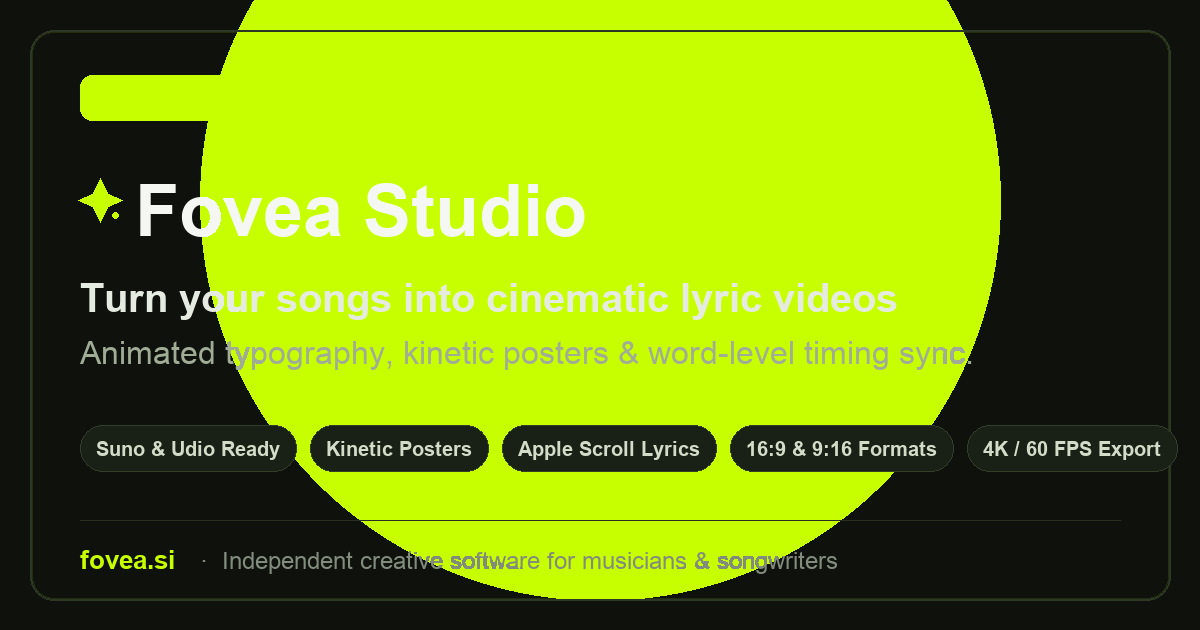
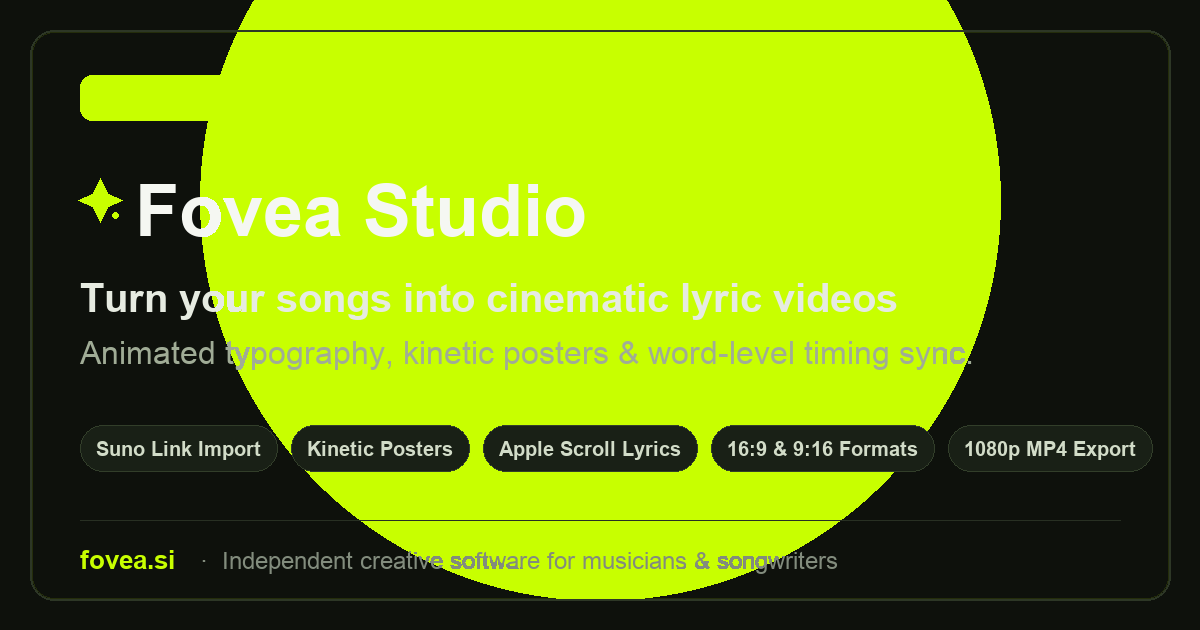
fix(seo): align pricing in llms.txt & json-ld with official catalog, remove unverified claims

Changed region(s): [[0.1233, 0.6635, 0.9867, 0.754]]

diff --git a/frontend/index.html b/frontend/index.html
@@ -11,7 +11,7 @@
 <link rel="icon" type="image/png" sizes="16x16" href="/favicon-16x16.png">
 <link rel="apple-touch-icon" sizes="180x180" href="/apple-touch-icon.png">
 <link rel="stylesheet" href="/marketing/site.css?v=20261103_convert"><script src="/marketing/site.js?v=20261103_convert" defer></script>
-<script type="application/ld+json">{"@context": "https://schema.org", "@type": "SoftwareApplication", "name": "fovea.si", "url": "https://fovea.si", "applicationCategory": "MultimediaApplication", "operatingSystem": "Web", "description": "AI-powered lyric video maker and animated typography studio for Suno musicians and music creators.", "offers": [{"@type": "Offer", "price": "0", "priceCurrency": "USD", "name": "Free Starter", "description": "60 free credits to create your first lyric videos, no credit card required"}, {"@type": "Offer", "price": "9.99", "priceCurrency": "USD", "name": "Creator Monthly", "description": "300 credits per month (about $1 per song)"}]}</script>
+<script type="application/ld+json">{"@context": "https://schema.org", "@type": "SoftwareApplication", "name": "fovea.si", "url": "https://fovea.si", "applicationCategory": "MultimediaApplication", "operatingSystem": "Web", "description": "AI-powered lyric video maker and animated typography studio for Suno musicians and music creators.", "offers": [{"@type": "Offer", "price": "0", "priceCurrency": "USD", "name": "Free Starter", "description": "60 free credits to create your first lyric videos, no credit card required"}, {"@type": "Offer", "price": "9.99", "priceCurrency": "USD", "name": "Creator (300 Credits/mo)", "description": "300 credits per month"}, {"@type": "Offer", "price": "19.99", "priceCurrency": "USD", "name": "Pro (800 Credits/mo)", "description": "800 credits per month"}, {"@type": "Offer", "price": "29.99", "priceCurrency": "USD", "name": "Studio (1,500 Credits/mo)", "description": "1,500 credits per month"}]}</script>
 <script>(function(){const t=window.CF_BEACON_TOKEN||document.querySelector('meta[name="cf-beacon-token"]')?.getAttribute('content');if(t&&!document.querySelector('script[src*="cloudflareinsights.com/beacon.min.js"]')){const s=document.createElement('script');s.defer=true;s.src='https://static.cloudflareinsights.com/beacon.min.js';s.setAttribute('data-cf-beacon',JSON.stringify({token:t}));document.head.appendChild(s);}})();</script></head>
 <body><a class="skip" href="#main">Skip to content</a>
 <header class="site-header"><a class="brand" href="/" aria-label="Fovea Studio home"><span class="brand-mark" aria-hidden="true"><svg width="18" height="18" viewBox="0 0 24 24" fill="none" stroke="currentColor" stroke-width="2.2" stroke-linecap="round" stroke-linejoin="round"><path d="M11.017 2.814a1 1 0 0 1 1.966 0l1.051 5.558a2 2 0 0 0 1.594 1.594l5.558 1.051a1 1 0 0 1 0 1.966l-5.558 1.051a2 2 0 0 0-1.594 1.594l-1.051 5.558a1 1 0 0 1-1.966 0l-1.051-5.558a2 2 0 0 0-1.594-1.594l-5.558-1.051a1 1 0 0 1 0-1.966l5.558-1.051a2 2 0 0 0 1.594-1.594z"/><circle cx="19" cy="19" r="2" fill="currentColor"/></svg></span><span class="brand-name">Fovea <span class="brand-suffix">Studio</span></span></a>

diff --git a/scripts/build_marketing.py b/scripts/build_marketing.py
@@ -120,8 +120,26 @@ def shell(title, description, content, *, page='home', path=None):
 
     json_ld = ''
     if page == 'home':
-        facts = plain_credit_facts()
-        creator_price = facts['creator_price']
+        rate = rates()
+        offers = [
+            {
+                "@type": "Offer",
+                "price": "0",
+                "priceCurrency": "USD",
+                "name": "Free Starter",
+                "description": f"{rate['free']} free credits to create your first lyric videos, no credit card required"
+            }
+        ]
+        for product in catalog():
+            if product.get('kind') == 'subscription':
+                price_str = f"{product['price_cents'] / 100:.2f}"
+                offers.append({
+                    "@type": "Offer",
+                    "price": price_str,
+                    "priceCurrency": product.get("currency", "USD"),
+                    "name": product["name"],
+                    "description": f"{product['credits']:,} credits per month"
+                })
         json_ld_data = {
             "@context": "https://schema.org",
             "@type": "SoftwareApplication",
@@ -130,22 +148,7 @@ def shell(title, description, content, *, page='home', path=None):
             "applicationCategory": "MultimediaApplication",
             "operatingSystem": "Web",
             "description": "AI-powered lyric video maker and animated typography studio for Suno musicians and music creators.",
-            "offers": [
-                {
-                    "@type": "Offer",
-                    "price": "0",
-                    "priceCurrency": "USD",
-                    "name": "Free Starter",
-                    "description": f"{facts['free']} free credits to create your first lyric videos, no credit card required"
-                },
-                {
-                    "@type": "Offer",
-                    "price": creator_price,
-                    "priceCurrency": "USD",
-                    "name": "Creator Monthly",
-                    "description": f"{facts['creator_credits']} credits per month (about $1 per song)"
-                }
-            ]
+            "offers": offers
         }
         json_ld = f'\n<script type="application/ld+json">{json.dumps(json_ld_data, ensure_ascii=False)}</script>'
 

diff --git a/scripts/generate_og_image.py b/scripts/generate_og_image.py
@@ -61,11 +61,11 @@ def create_og_image():
 
     # Feature badges
     badges = [
-        "Suno & Udio Ready",
+        "Suno Link Import",
         "Kinetic Posters",
         "Apple Scroll Lyrics",
         "16:9 & 9:16 Formats",
-        "4K / 60 FPS Export"
+        "1080p MP4 Export"
     ]
     bx = 80
     by = 425
